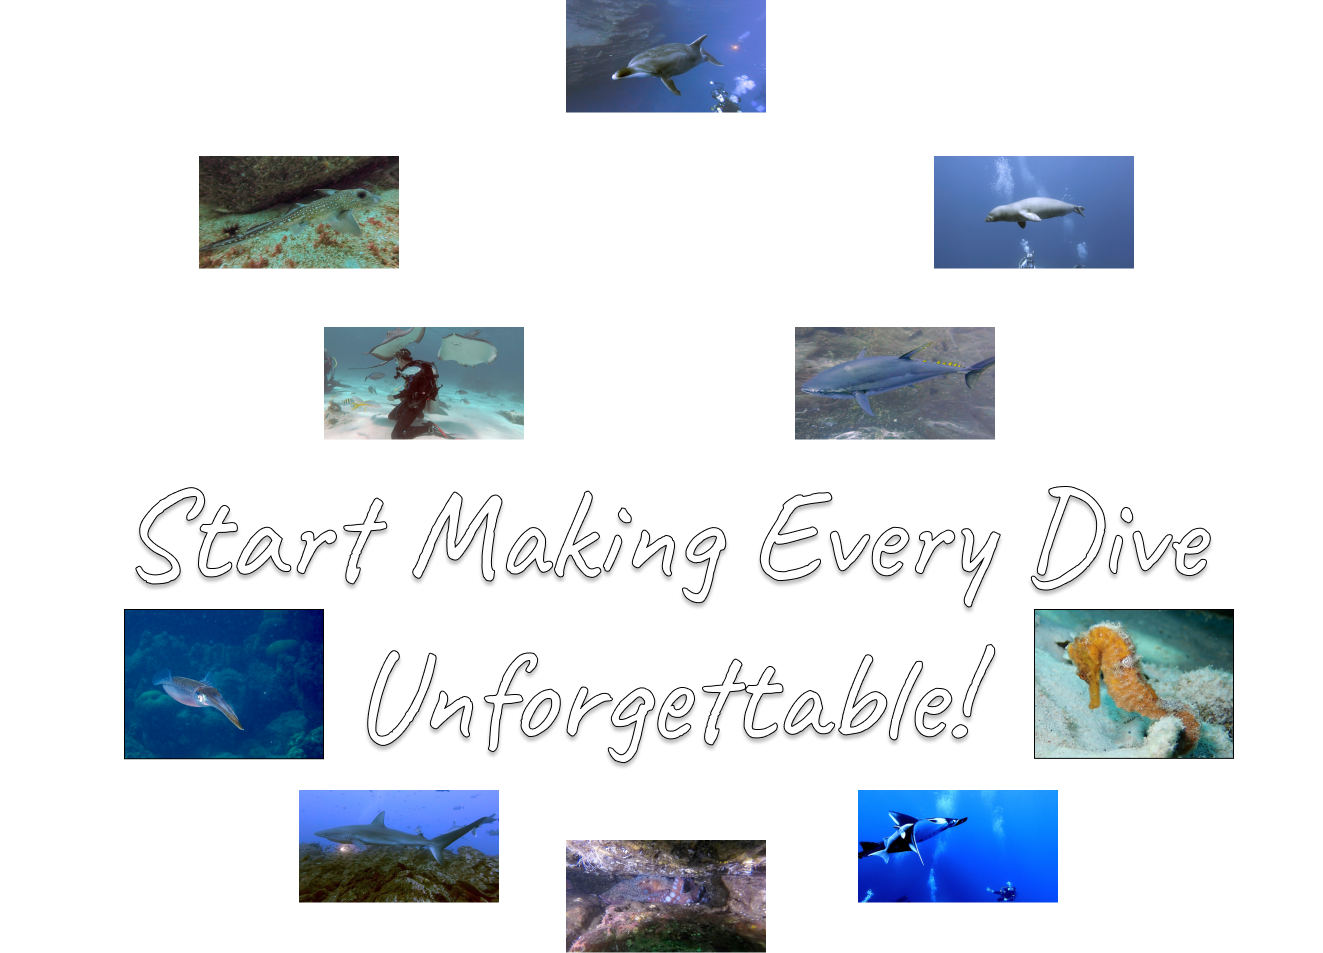
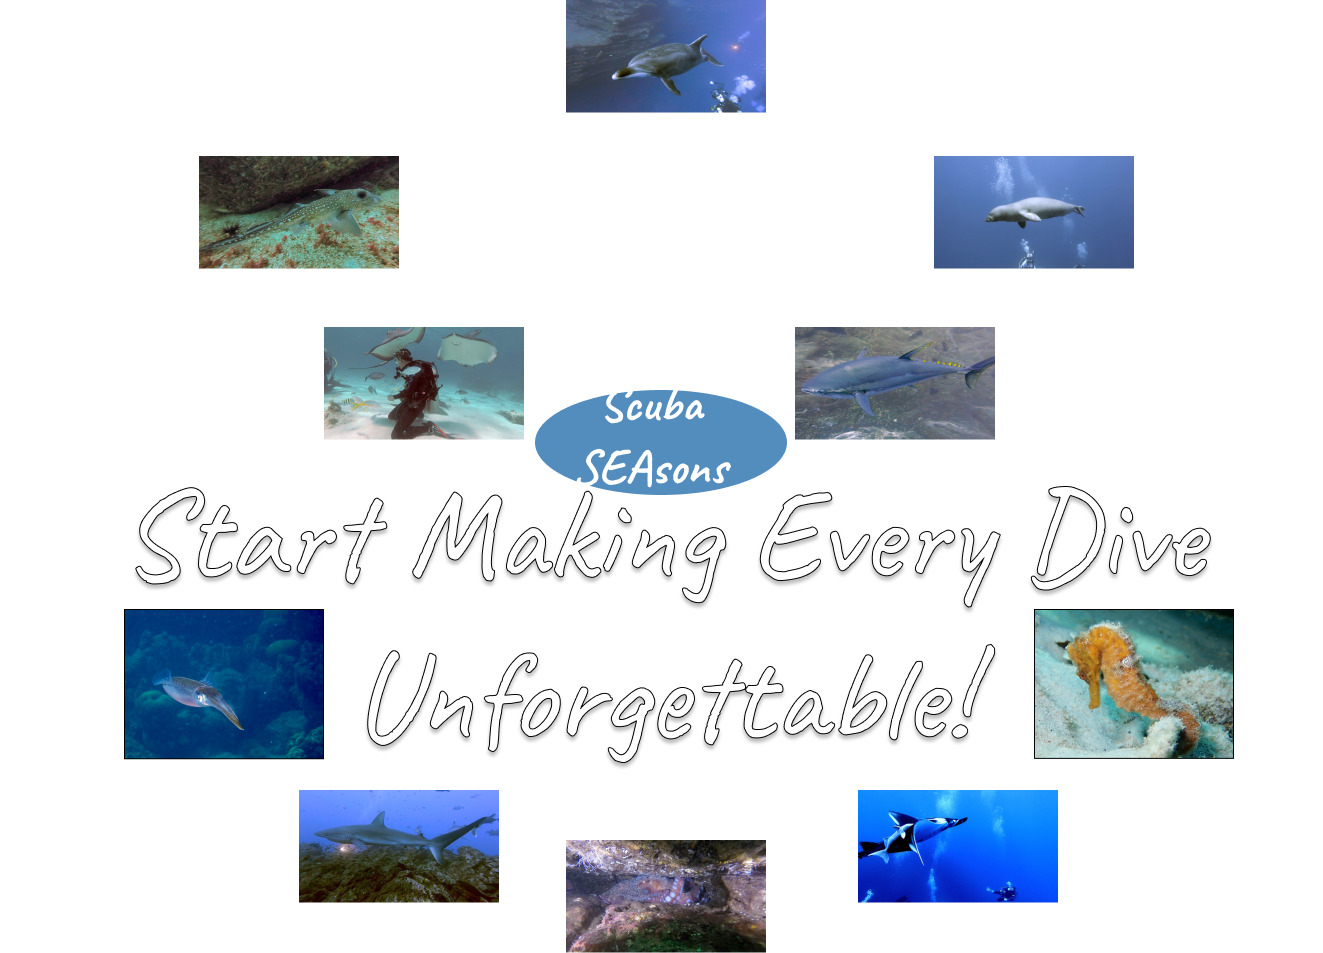
rebrnading

Changed region(s): [[0.4029, 0.3956, 0.6198, 0.5173]]

diff --git a/wetmap/src/components/modals/dialog.jsx b/wetmap/src/components/modals/dialog.jsx
@@ -49,7 +49,7 @@ const ActDelDialog = (props) => {
 
   return (
     <Dialog open={openDialog}>
-      <DialogTitle>You Are About To Delete Your DiveGo Account</DialogTitle>
+      <DialogTitle>You Are About To Delete Your Scuba SEAsons Account</DialogTitle>
       <DialogContent>
         Are you sure you want to delete your account? <br></br>
         <br></br> Please note that deleting your account will not delete your
@@ -64,7 +64,7 @@ const ActDelDialog = (props) => {
           href={`mailto:DiveGo2022@gmail.com?subject=Delete%20Account%20Request%20${blurb}&body=Hello%20I%20am%20deleting%20my%20DiveGo%20account%20and%20would%20also%20like%20to%20also%20have%20the%20following%20of%20my%20submissions%20removed%20as%20well%0D%0A%0D%0A%0D%0A%0D%0AMy%20Dive%20Sites%20(Y/N)%0D%0A%0D%0A%0D%0A%0D%0AMy%20Photo%20Submissions%20(Y/N)%0D%0A%0D%0A%0D%0A%0D%0AAs%20removing%20these%20submisions%20would%20diminish%20the%20experience%20for%20others%20divers%20in%20the%20community,%20would%20you%20be%20willing%20to%20negotiate%20with%20DiveGo%20to%20allow%20these%20to%20stay%20in%20the%20app?%20(Y/N)`}
           onClick={() => setOpenDialog(false)}
         >
-          CONTACT DIVEGO
+          Contact Scuba SEAsons
         </a>
       </DialogActions>
     </Dialog>

diff --git a/wetmap/src/components/modals/howToGuide.jsx b/wetmap/src/components/modals/howToGuide.jsx
@@ -13,12 +13,12 @@ const HowToGuide = (props) => {
     <div className="masterDiv">
       <div className="topRead">
         <div className="titleDiv">
-          <h3>How to use DiveGo</h3>
+          <h3>How to use Scuba SEAsons</h3>
         </div>
 
         <div className="mainBlurbDiv">
           <p>
-            Welcome to DiveGo, this app is designed for divers who love to
+            Welcome to Scuba SEAsons, this app is designed for divers who love to
             interact with animals
             <br></br><br></br>
             The anchor icons show you the locations of dive

diff --git a/wetmap/src/components/logo/logo.css b/wetmap/src/components/logo/logo.css
@@ -8,7 +8,7 @@
         bottom: 0;
         padding-top: 5px;
         margin-bottom: -5px;
-        width: 90px;
+        width: 150px;
         height: 40px;
         text-align: center;
 		box-shadow: 2px -2px 4px #00000064;
@@ -18,8 +18,8 @@
     .text{
         padding-top: 2px;
         margin-bottom: 0px;
-        width: 65px;
+        width: 100px;
         height: 30px;
-        font-size: 18px;
+        font-size: 16px;
 }
 }

diff --git a/wetmap/src/LoadingScreen.jsx b/wetmap/src/LoadingScreen.jsx
@@ -8,7 +8,7 @@ export default function LoadingScreen() {
       <div className="containerMain">
       <img src={MantaRay} className="mantaLogo"></img>
 
-      <div className="logoDiv">DiveGo</div>
+      <div className="logoDiv">Scuba SEAsons</div>
       </div>
     </div>
   );

diff --git a/wetmap/src/components/modals/picUploader.jsx b/wetmap/src/components/modals/picUploader.jsx
@@ -82,7 +82,6 @@ const PicUploader = React.memo((props) => {
       }
 
       let fileName = e.target.files[0];
-      console.log("yo", fileName);
       let baseDate = e.target.files[0].lastModified;
 
       setUploadedFile({ ...uploadedFile, selectedFile: e.target.files[0] });

diff --git a/wetmap/index.html b/wetmap/index.html
@@ -13,7 +13,7 @@
       integrity="sha512-xwE/Az9zrjBIphAcBb3F6JVqxf46+CDLwfLMHloNu6KEQCAWi6HcDUbeOfBIptF7tcCzusKFjFw2yuvEpDL9wQ=="
       crossorigin=""
     />
-    <title>DiveGo</title>
+    <title>Scuba SEAsons</title>
   </head>
   <body>
     <div id="root"></div>

diff --git a/wetmap/src/components/logo/logo.jsx b/wetmap/src/components/logo/logo.jsx
@@ -9,7 +9,7 @@ export default function Logo(props) {
     <h2 className="text"
       onDoubleClick={() => setShowAdminPortal(!showAdminPortal)}
     >
-      DiveGo
+      Scuba SEAsons
     </h2>
   );
 }

diff --git a/wetmap/src/loadingScreen.css b/wetmap/src/loadingScreen.css
@@ -20,7 +20,7 @@
   font-size: 50px;
   color: white;
   text-align: center;
-  margin-left: -10px;
+  margin-left: -65px;
 }
 
 .mantaLogo {
